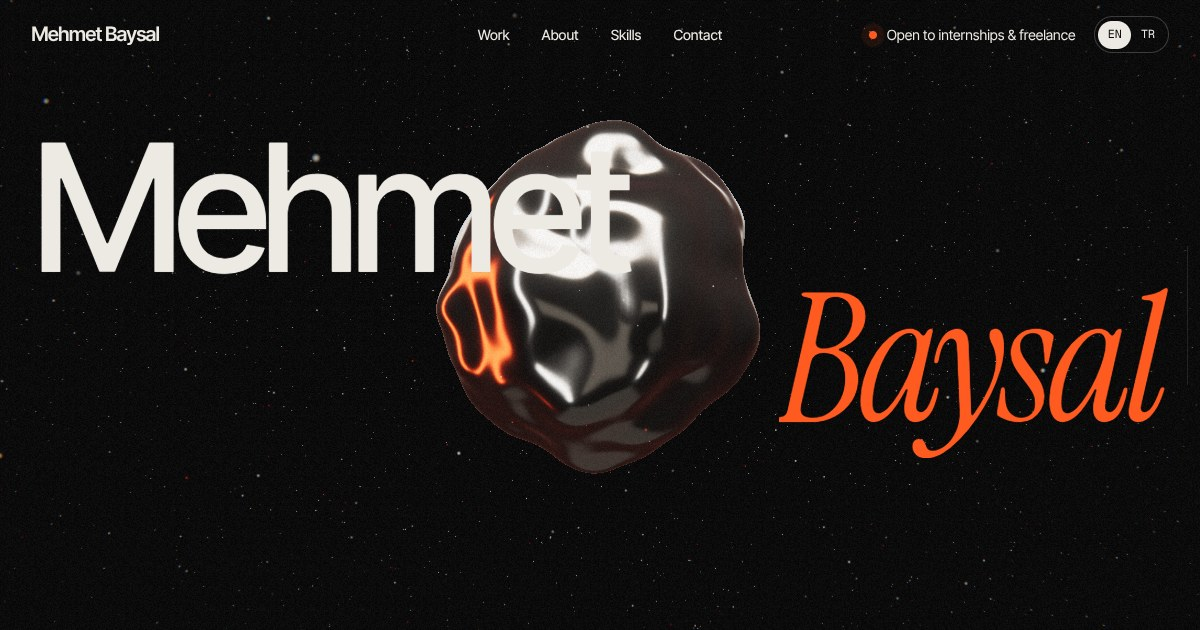
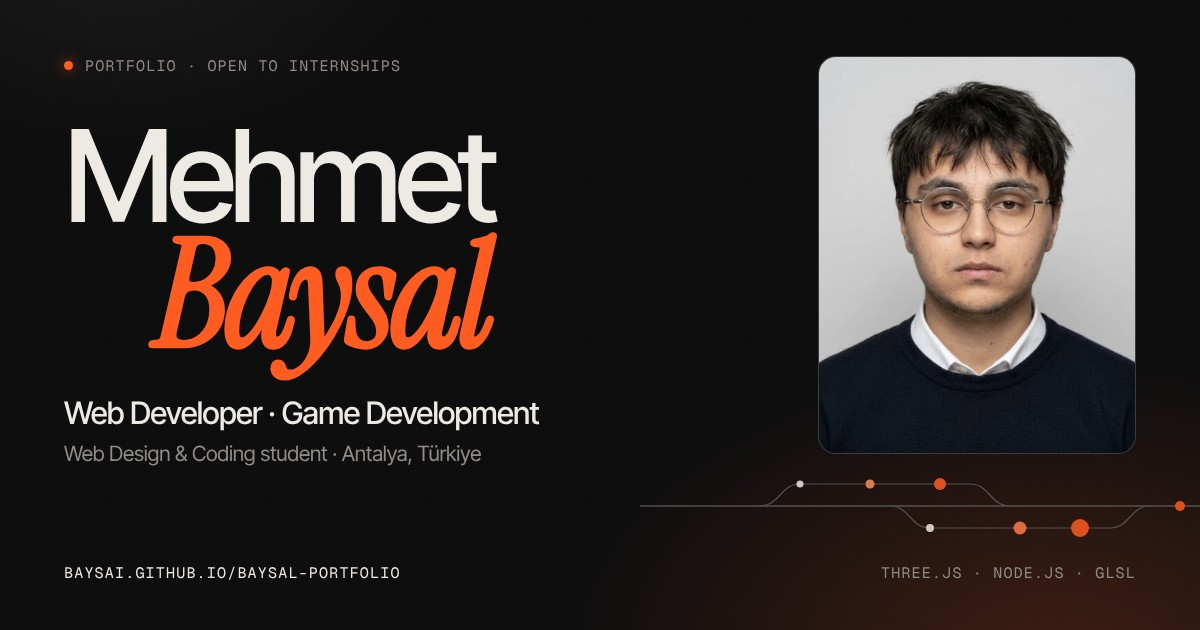
feat(seo): redesign the share image with the portrait and role
The card now carries the role, the student line, the portrait and a small
commit graph in the site's colours. The image URL is versioned so social
networks fetch the new one, and it has alt text in both languages.

diff --git a/index.html b/index.html
@@ -18,13 +18,15 @@
     <meta property="og:url" content="{{site.url}}" />
     <meta property="og:title" content="" data-i18n-attr="content:meta.title" />
     <meta property="og:description" content="" data-i18n-attr="content:meta.description" />
-    <meta property="og:image" content="{{site.url}}og.jpg" />
+    <meta property="og:image" content="{{site.url}}og.jpg?v=2" />
     <meta property="og:image:width" content="1200" />
     <meta property="og:image:height" content="630" />
+    <meta property="og:image:alt" content="" data-i18n-attr="content:meta.imageAlt" />
     <meta name="twitter:card" content="summary_large_image" />
     <meta name="twitter:title" content="" data-i18n-attr="content:meta.title" />
     <meta name="twitter:description" content="" data-i18n-attr="content:meta.description" />
-    <meta name="twitter:image" content="{{site.url}}og.jpg" />
+    <meta name="twitter:image" content="{{site.url}}og.jpg?v=2" />
+    <meta name="twitter:image:alt" content="" data-i18n-attr="content:meta.imageAlt" />
 
     <script type="application/ld+json">
       {
@@ -33,6 +35,7 @@
         "name": "{{site.name}}",
         "jobTitle": "{{site.role}}",
         "url": "{{site.url}}",
+        "image": "{{site.url}}mehmet-baysal-800.webp",
         "email": "mailto:{{site.email}}",
         "address": { "@type": "PostalAddress", "addressLocality": "{{site.location}}" },
         "sameAs": ["{{site.github}}", "{{site.linkedin}}"],

diff --git a/src/content/i18n.ts b/src/content/i18n.ts
@@ -6,6 +6,8 @@ const en = {
   'meta.description':
     'Portfolio of Mehmet Baysal, web developer and Web Design & Coding student: a hotel website in production, a horror game on itch.io, a five-language listings platform and business software.',
 
+  'meta.imageAlt':
+    'Mehmet Baysal, Web Developer and Game Development, with a portrait and a commit graph',
   'skip': 'Skip to content',
   'loader.label': 'Loading portfolio',
 
@@ -206,6 +208,8 @@ const tr: Dict = {
   'meta.description':
     'Web geliştirici ve Web Tasarımı ve Kodlama öğrencisi Mehmet Baysal’ın portfolyosu: yayındaki bir otel sitesi, itch.io’da bir korku oyunu, beş dilli bir ilan platformu ve işletme yazılımları.',
 
+  'meta.imageAlt':
+    'Mehmet Baysal, Web Geliştirici ve Oyun Geliştirme; portresi ve bir commit grafiğiyle',
   'skip': 'İçeriğe geç',
   'loader.label': 'Portfolyo yükleniyor',
 
